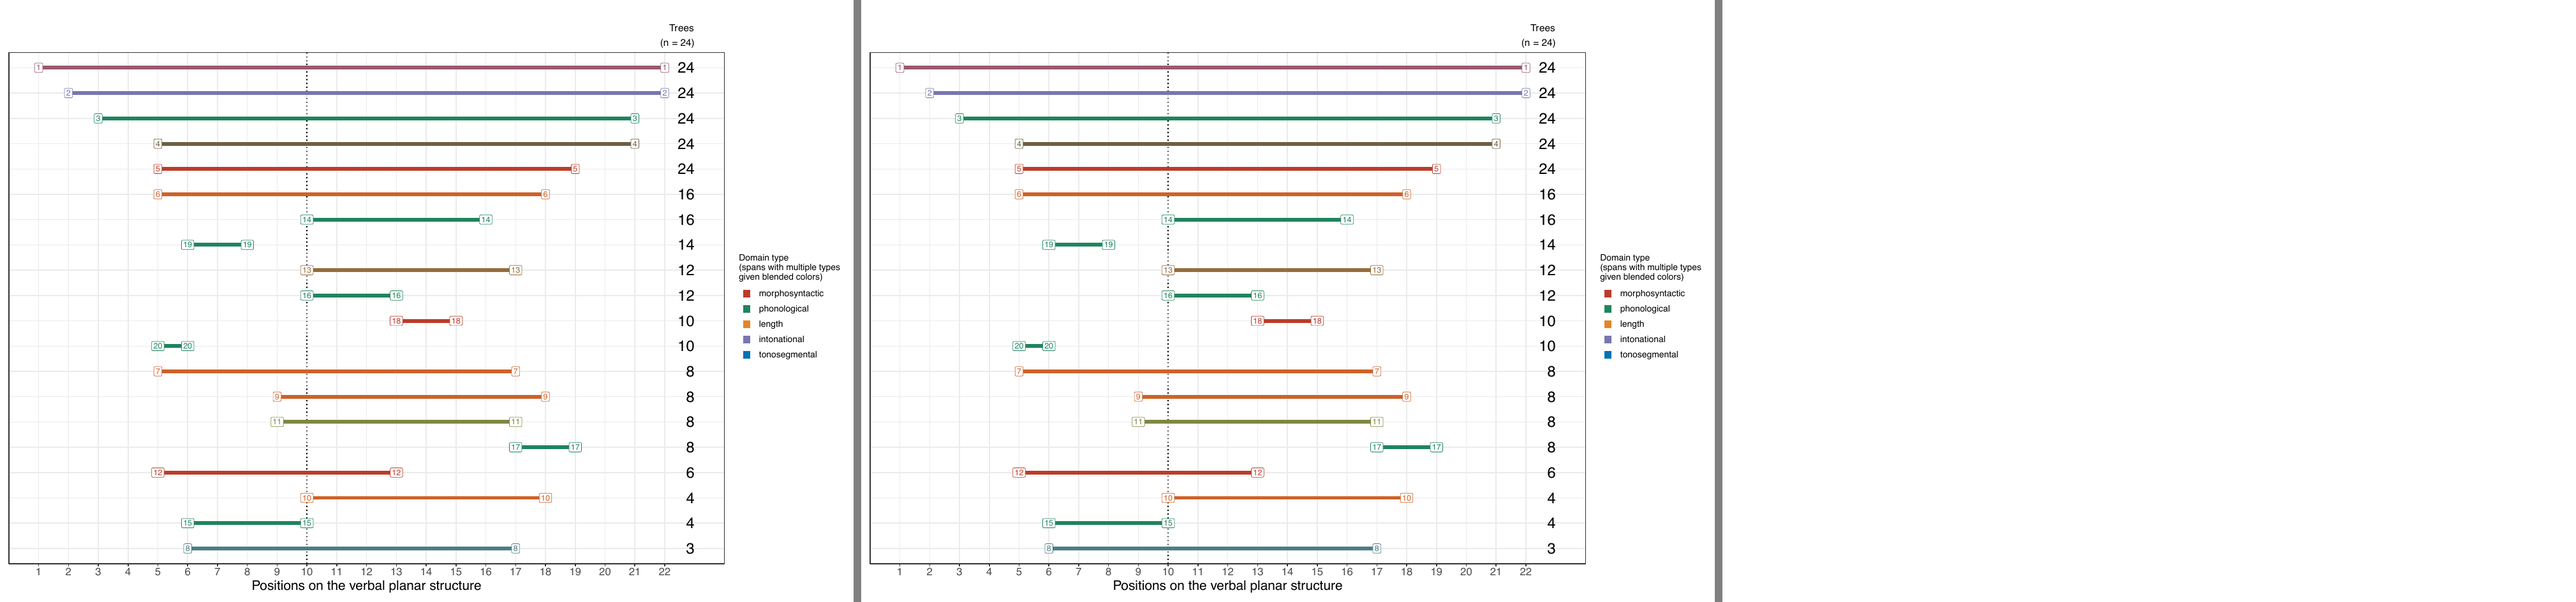
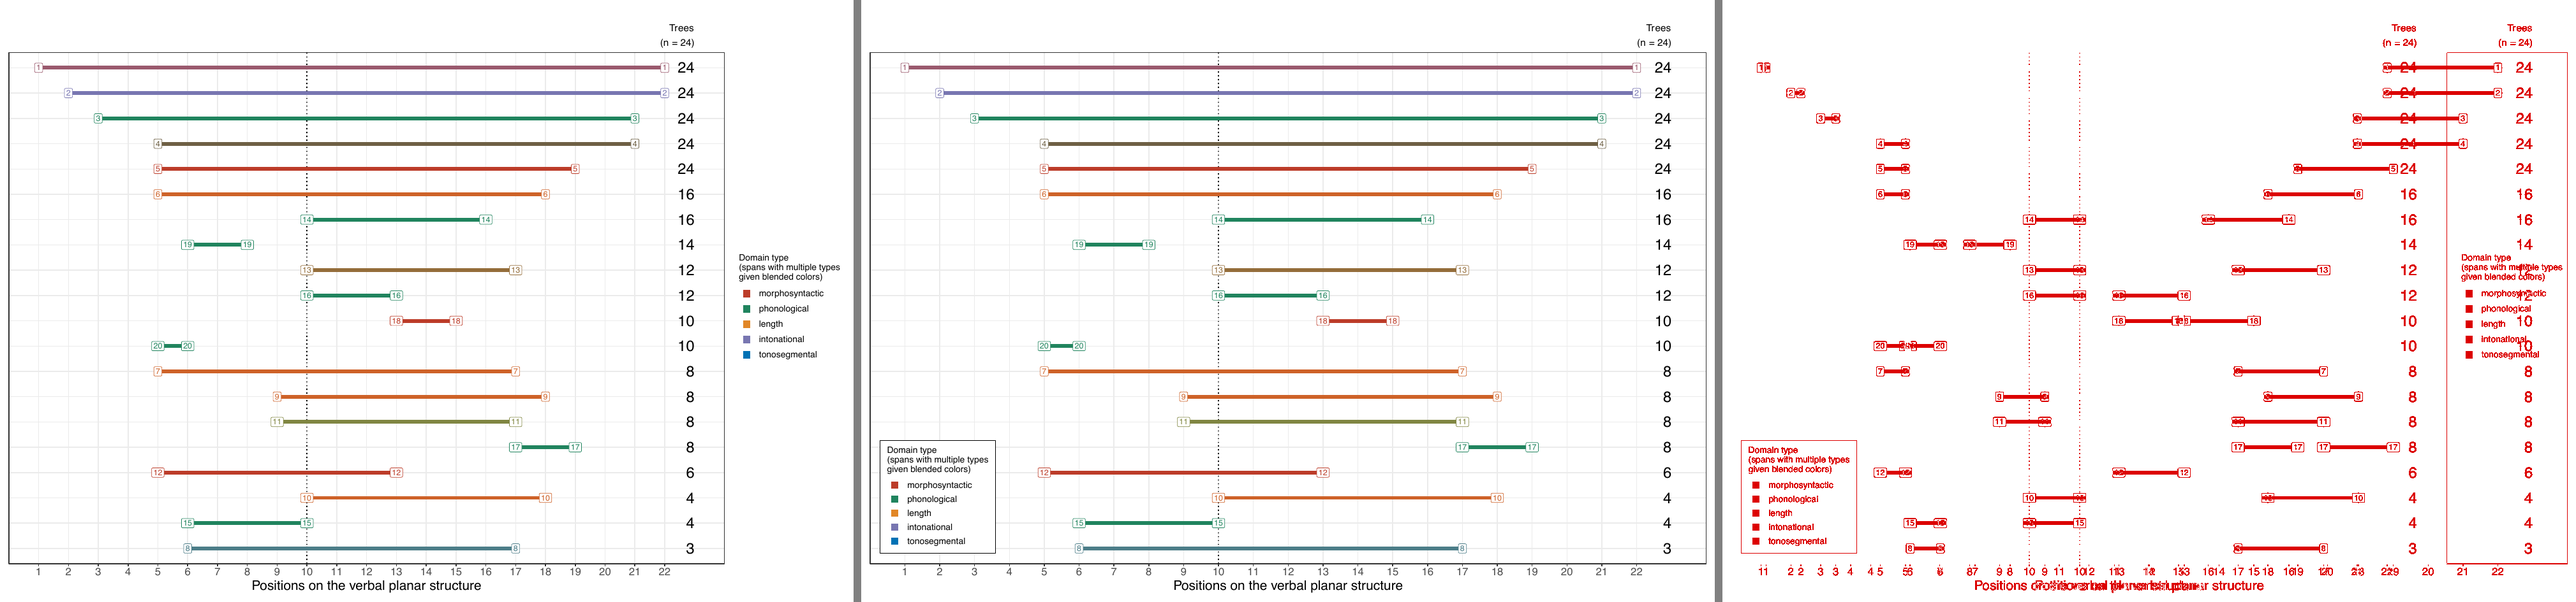
planarsviz: ForestSpans legend as an inset in the empty lower-left corner
Asked for by Jeff. The colour key moves from beside the panel into the
panel itself, in a white box with a border, freeing the width the legend
column took. Nothing is covered: the spans in that corner are the ones in
fewest families, and they all start at position 5 or later, while the box
ends before position 4 — checked on the full chart and the
no-tonosegmental one.

Options: legend_position ("inside" by default, "right" for the original
layout) and legend_inside for the box's corner.

check_forestspans.R now reports both: with legend_position = "right" both
charts are still 0.0000% different from the old files, so only the legend
moved; the library default differs by 5.2% and 4.2%. check_renderer.py
lists both charts as deliberate changes. Catalogue, its example image, the
progress file and the shifted render updated.

Claude-Session: https://claude.ai/code/session_01Y9T6sSm3ipcLkWr35kXTRo

diff --git a/NonCollaborative/scripts/planarsviz_checks/check_renderer.py b/NonCollaborative/scripts/planarsviz_checks/check_renderer.py
@@ -31,7 +31,10 @@ PORTS = ("tree_count_", "boundary_strength", "boundary_strength_no_tono", "bound
 # match the old files: conflict-group panel titles now show; the overlay
 # legend's thickness swatch follows the lines' exponent (0.75 here).
 CHANGED = {"conflict_groups", "all_families_labeled_legend",
-           "all_families_labeled_orthographic_word_legend"}
+           "all_families_labeled_orthographic_word_legend",
+           # 2026-09-16: the ForestSpans legend moved into the panel's empty
+           # lower-left corner, in a bordered box.
+           "forestspans_plot", "forestspans_plot_no_tono"}
 
 out_dir = Path(sys.argv[1])
 compare_dir = out_dir / "compare"

diff --git a/NonCollaborative/docs/PLANARSVIZ_LIBRARY_PROGRESS.md b/NonCollaborative/docs/PLANARSVIZ_LIBRARY_PROGRESS.md
@@ -493,6 +493,14 @@ Reference images: 63 PNGs at 100 dpi in `results/planarsviz/reference/`
 - R6 search: comments and a point-shape number only.
 - Looked at by Claude: yes (shifted side by side). Seen by Jeff: no.
 - Status: done pending Jeff's review.
+- **Changed 2026-09-16 at Jeff's request:** the colour key moved from beside
+  the panel into the panel's empty lower-left corner, in a white box with a
+  border (`legend_position`, default `"inside"`; `"right"` reproduces the old
+  chart exactly, checked; `legend_inside` moves the box). Nothing is
+  covered: every span in that corner starts at position 5 or later and the
+  box ends before position 4, on both the full and the no-tonosegmental
+  chart. Pixel difference from the old files: 5.2% and 4.2%, all of it the
+  legend moving.
 
 ## Chart 16: tree-count bar charts (4 files) — cross-language port (§4.3)
 - Step 1, calculation: the exporter calls `laminar_tree_counts.py`'s

diff --git a/NonCollaborative/docs/planarsviz_charts.md b/NonCollaborative/docs/planarsviz_charts.md
@@ -282,6 +282,8 @@ plot_forestspans(bundle, subset = "no_tono")    # fresh analysis without tonoseg
 | Option | Meaning |
 |---|---|
 | `subset` | `NULL`, or a subset id from `subsets.json`; its layers and counts are its own. |
+| `legend_position` | `"inside"` (default) puts the colour key in the panel's empty lower-left corner, in a bordered white box; `"right"` puts it beside the panel, as the old file has it. |
+| `legend_inside` | Where the inset legend's lower-left corner sits, as a share of the panel. |
 
 Canvas 34 × 24 cm. Renderer names `forestspans_plot`,
 `forestspans_plot_<subset>`; old files `nyan1308_forestspans_plot.pdf`,
